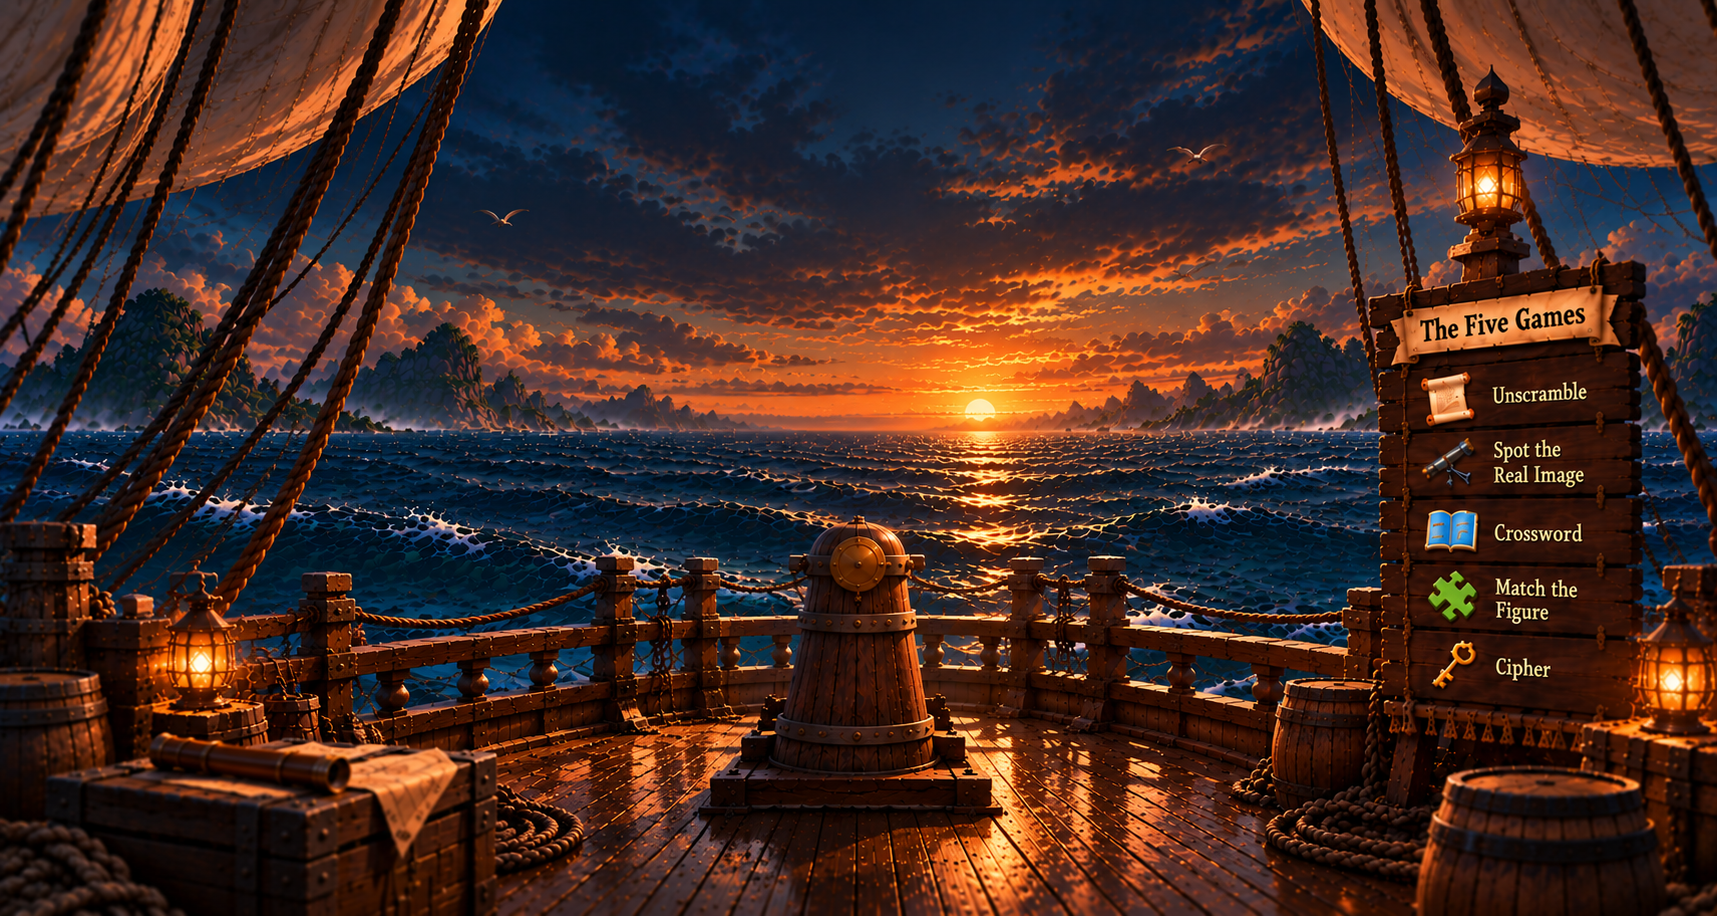
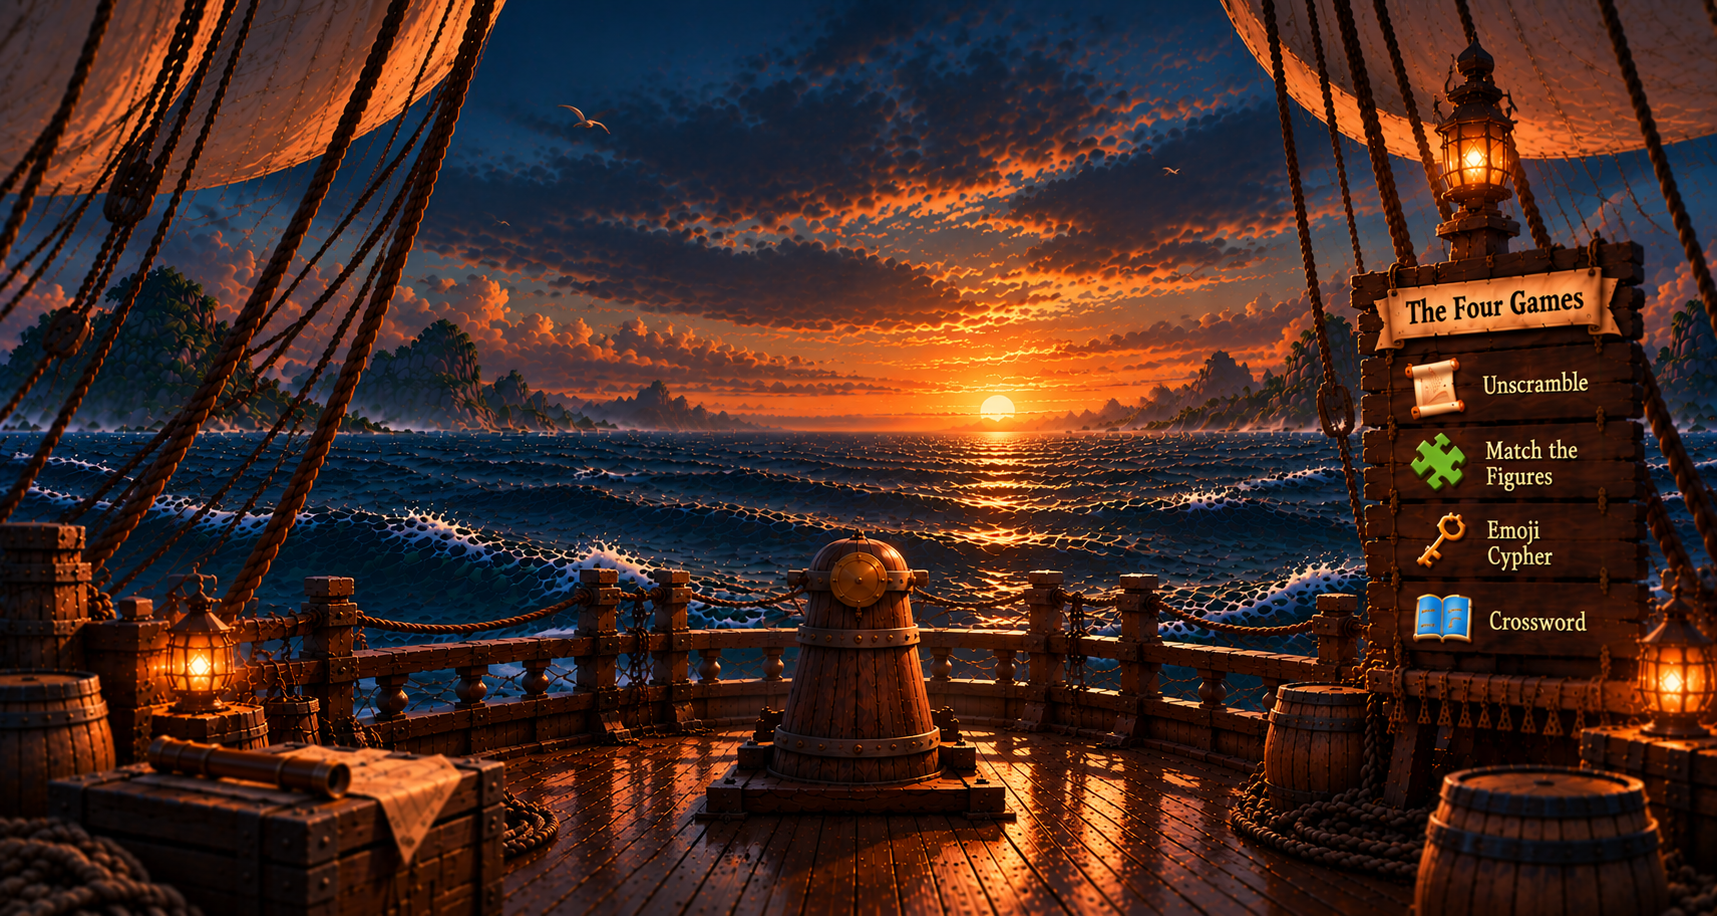
change in games

diff --git a/index.html b/index.html
@@ -6,7 +6,6 @@
       name="viewport"
       content="width=device-width, initial-scale=1, viewport-fit=cover" />
     <title>Spin the Helm</title>
-    <link rel="icon" type="image/jpeg" href="favicon.jpeg" />
     <link
       href="https://fonts.googleapis.com/css2?family=Pirata+One&display=swap"
       rel="stylesheet" />
@@ -279,21 +278,16 @@
     </div>
 
     <script>
-      /* ===== CONFIG: the five games (clockwise from the top of the wheel) ===== */
+      /* ===== CONFIG: the four games (clockwise from the top of the wheel) ===== */
       const GAMES = [
-        { name: "Crossword", lines: ["Crossword"], icon: "📖" },
+        { name: "Unscramble", lines: ["Unscramble"], icon: "📜" },
         {
           name: "Match the Figure",
           lines: ["Match the", "Figure"],
           icon: "🧩",
         },
-        { name: "Cipher", lines: ["Cipher"], icon: "🗝" },
-        { name: "Unscramble", lines: ["Unscramble"], icon: "📜" },
-        {
-          name: "Spot the Real Image",
-          lines: ["Spot the", "Real Image"],
-          icon: "🔭",
-        },
+        { name: "Emoji Cipher", lines: ["Emoji", "Cipher"], icon: "😎" },
+        { name: "Crossword", lines: ["Crossword"], icon: "📖" },
       ];
       const NS = "http://www.w3.org/2000/svg",
         CX = 768,
@@ -313,8 +307,8 @@
       const rot = document.getElementById("rot");
 
       /* handles */
-      for (let i = 0; i < 10; i++) {
-        const a = i * 36 + 18,
+      for (let i = 0; i < 8; i++) {
+        const a = i * 45 + 22.5,
           [x1, y1] = pt(225, a),
           [x2, y2] = pt(268, a),
           [x3, y3] = pt(292, a);
